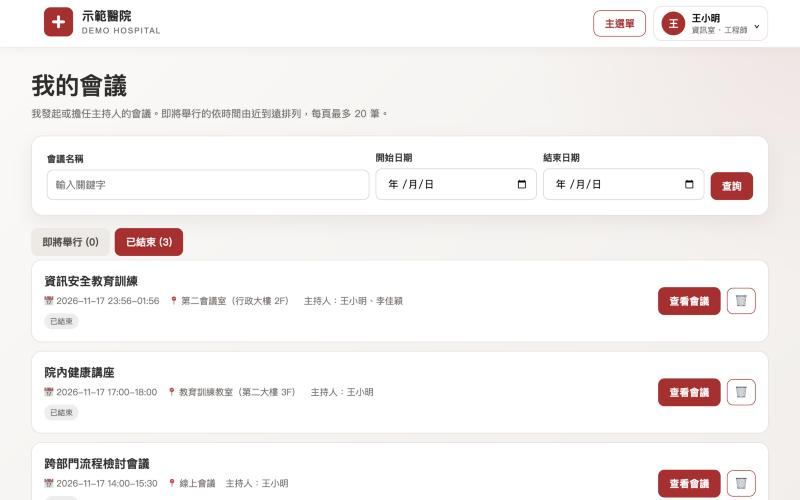
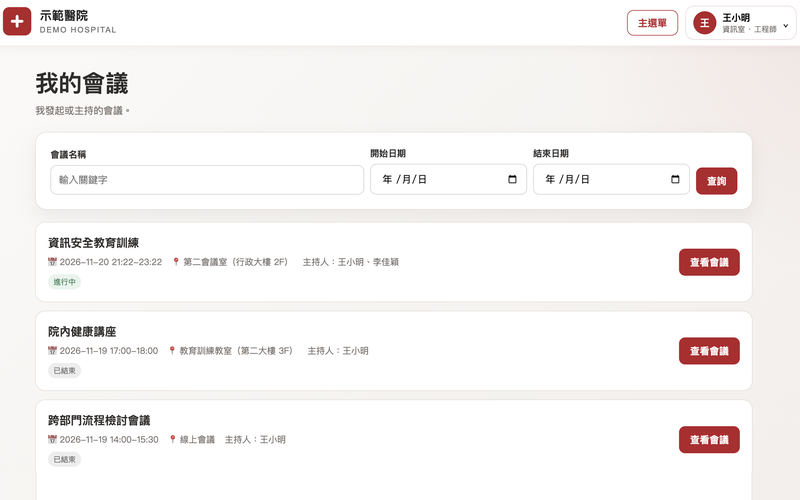
Serve login page at root path; update My Meetings text and screenshot

diff --git a/wwwroot/dashboard.html b/wwwroot/dashboard.html
@@ -1,1 +1,1 @@
-<!doctype html><html lang="zh-Hant"><head><meta charset="utf-8"><meta name="viewport" content="width=device-width,initial-scale=1"><title>會議簽到系統</title><link rel="stylesheet" href="app.css?v=20261119-liff2"></head><body><div id="shell"></div><main class="main"><div class="page-title"><h1 id="welcome">您好</h1><p id="todaySummary">歡迎使用會議簽到系統。</p></div><section class="feature-grid three-up"><a class="feature-card" href="sign-in.html"><div><div class="icon-box">▣</div><h2>今日會議</h2><p>查看今天的會議，開啟 QR Code 讓與會者簽到。</p></div><span class="arrow">前往今日會議 →</span></a><a class="feature-card" href="create-meeting.html"><div><div class="icon-box">＋</div><h2>發起會議</h2><p>設定會議資訊、主持人、地點與參與人員。</p></div><span class="arrow">建立會議 →</span></a><a class="feature-card" href="my-meetings.html"><div><div class="icon-box">⌕</div><h2>我的會議</h2><p>查看即將舉行與已結束的會議，管理 QR Code 與簽到名單。</p></div><span class="arrow">查看我的會議 →</span></a></section></main><script src="app.js?v=20261119-liff2"></script><script>initShell();document.querySelector('#welcome').textContent=`您好，${getUser().name||'使用者'}`;(async()=>{try{const today=localDateString(),q=new URLSearchParams({startDate:today,endDate:today});const list=await apiJson('api/meetings?'+q);const left=list.filter(m=>meetingAccessState(m)!=='closed').length;todaySummary.textContent=list.length?`今天有 ${list.length} 場您主持的會議${left?`，其中 ${left} 場尚未結束`:''}。`:'今天沒有您主持的會議。'}catch{}})()</script></body></html>
+<!doctype html><html lang="zh-Hant"><head><meta charset="utf-8"><meta name="viewport" content="width=device-width,initial-scale=1"><title>會議簽到系統</title><link rel="stylesheet" href="app.css?v=20261119-liff2"></head><body><div id="shell"></div><main class="main"><div class="page-title"><h1 id="welcome">您好</h1><p id="todaySummary">歡迎使用會議簽到系統。</p></div><section class="feature-grid three-up"><a class="feature-card" href="sign-in.html"><div><div class="icon-box">▣</div><h2>今日會議</h2><p>查看今天的會議，開啟 QR Code 讓與會者簽到。</p></div><span class="arrow">前往今日會議 →</span></a><a class="feature-card" href="create-meeting.html"><div><div class="icon-box">＋</div><h2>發起會議</h2><p>設定會議資訊、主持人、地點與參與人員。</p></div><span class="arrow">建立會議 →</span></a><a class="feature-card" href="my-meetings.html"><div><div class="icon-box">⌕</div><h2>我的會議</h2><p>查看我發起或主持的會議，管理 QR Code 與簽到名單。</p></div><span class="arrow">查看我的會議 →</span></a></section></main><script src="app.js?v=20261119-liff2"></script><script>initShell();document.querySelector('#welcome').textContent=`您好，${getUser().name||'使用者'}`;(async()=>{try{const today=localDateString(),q=new URLSearchParams({startDate:today,endDate:today});const list=await apiJson('api/meetings?'+q);const left=list.filter(m=>meetingAccessState(m)!=='closed').length;todaySummary.textContent=list.length?`今天有 ${list.length} 場您主持的會議${left?`，其中 ${left} 場尚未結束`:''}。`:'今天沒有您主持的會議。'}catch{}})()</script></body></html>

diff --git a/Program.cs b/Program.cs
@@ -180,5 +180,8 @@ app.MapFallback(async context =>
 
     await context.Response.SendFileAsync(
         Path.Combine(app.Environment.WebRootPath, "index.html"));
-});
+})
+// 根路徑「/」與不存在的頁面都會落到這裡並回傳登入頁，所以不能要求登入，
+// 否則還沒登入的人連登入頁都看不到。這裡只回傳登入頁或 404 訊息，不含任何資料。
+.AllowAnonymous();
 app.Run();
